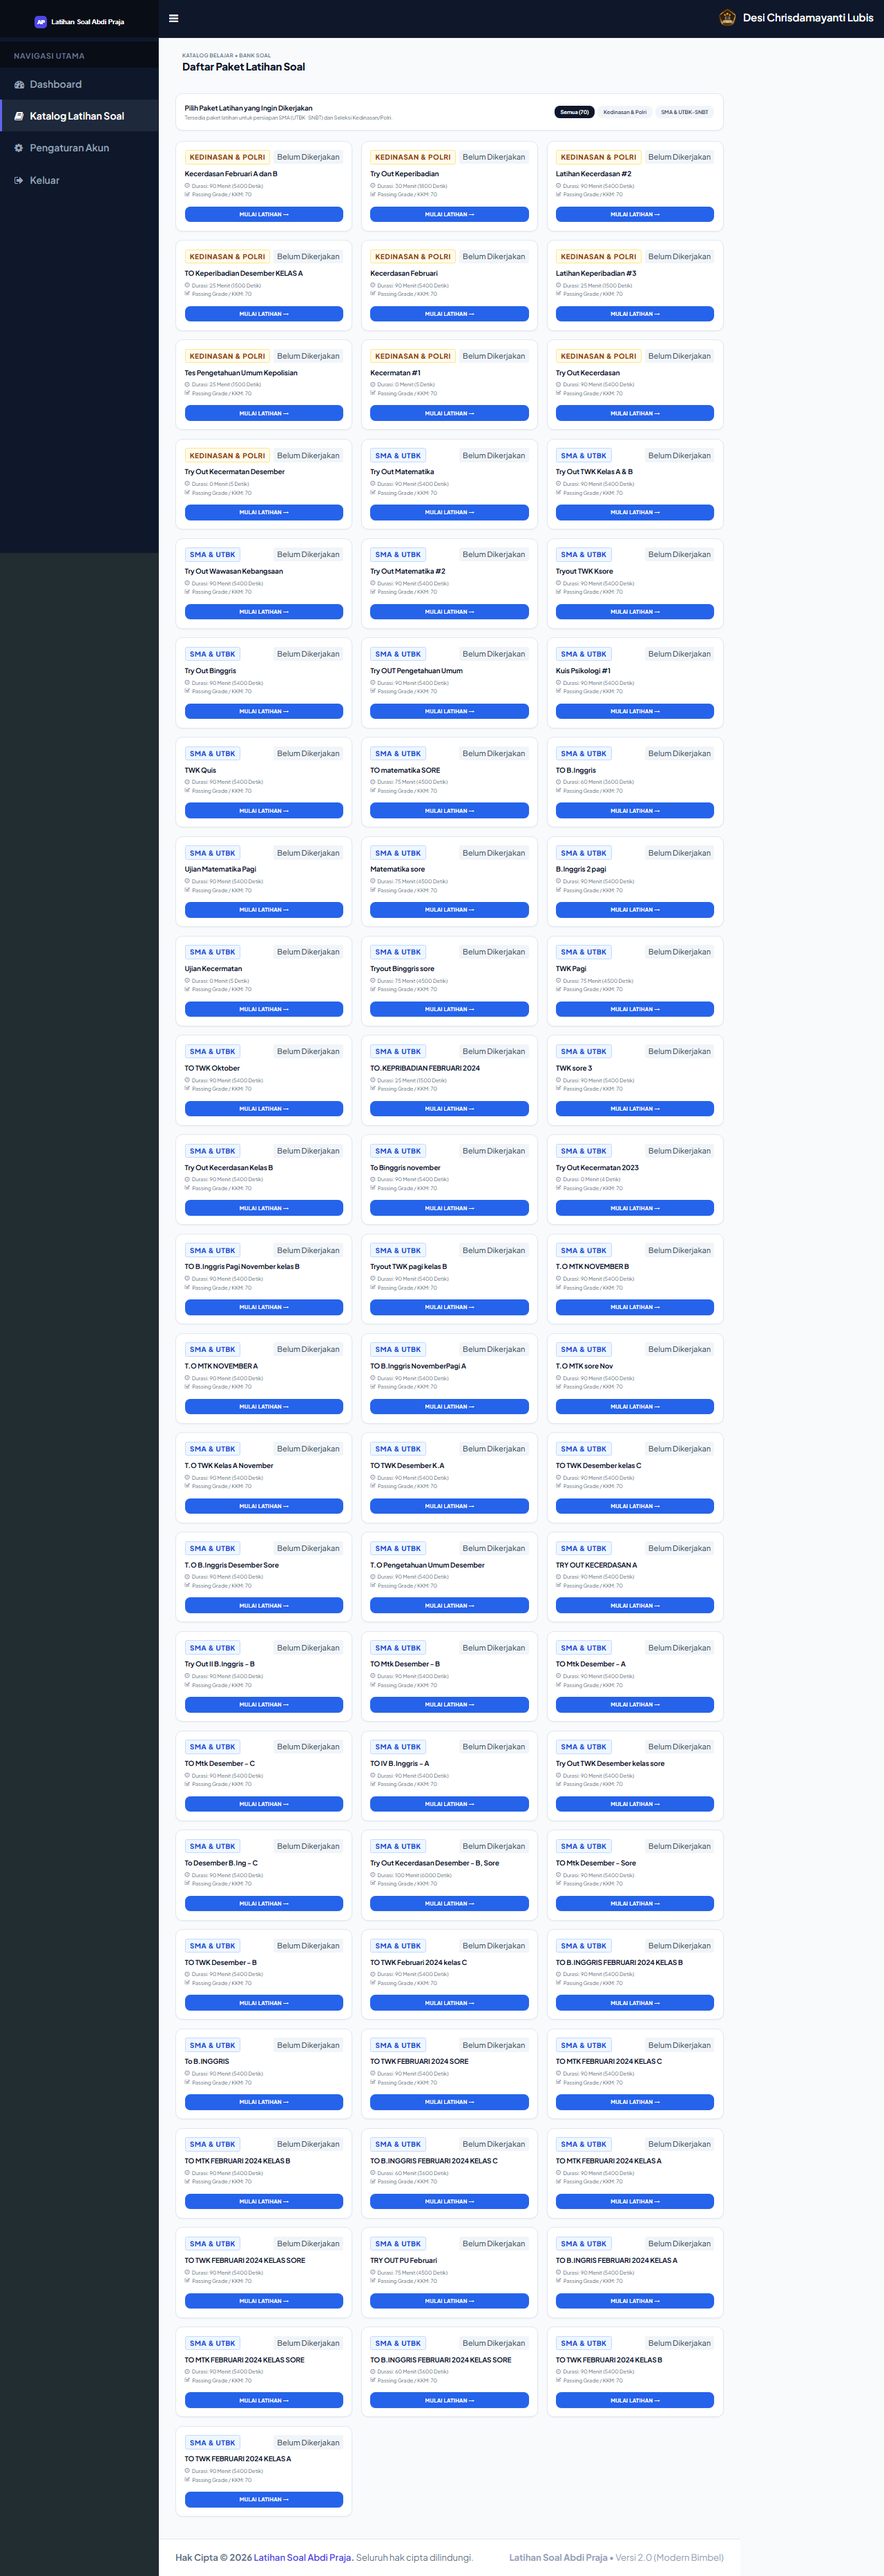
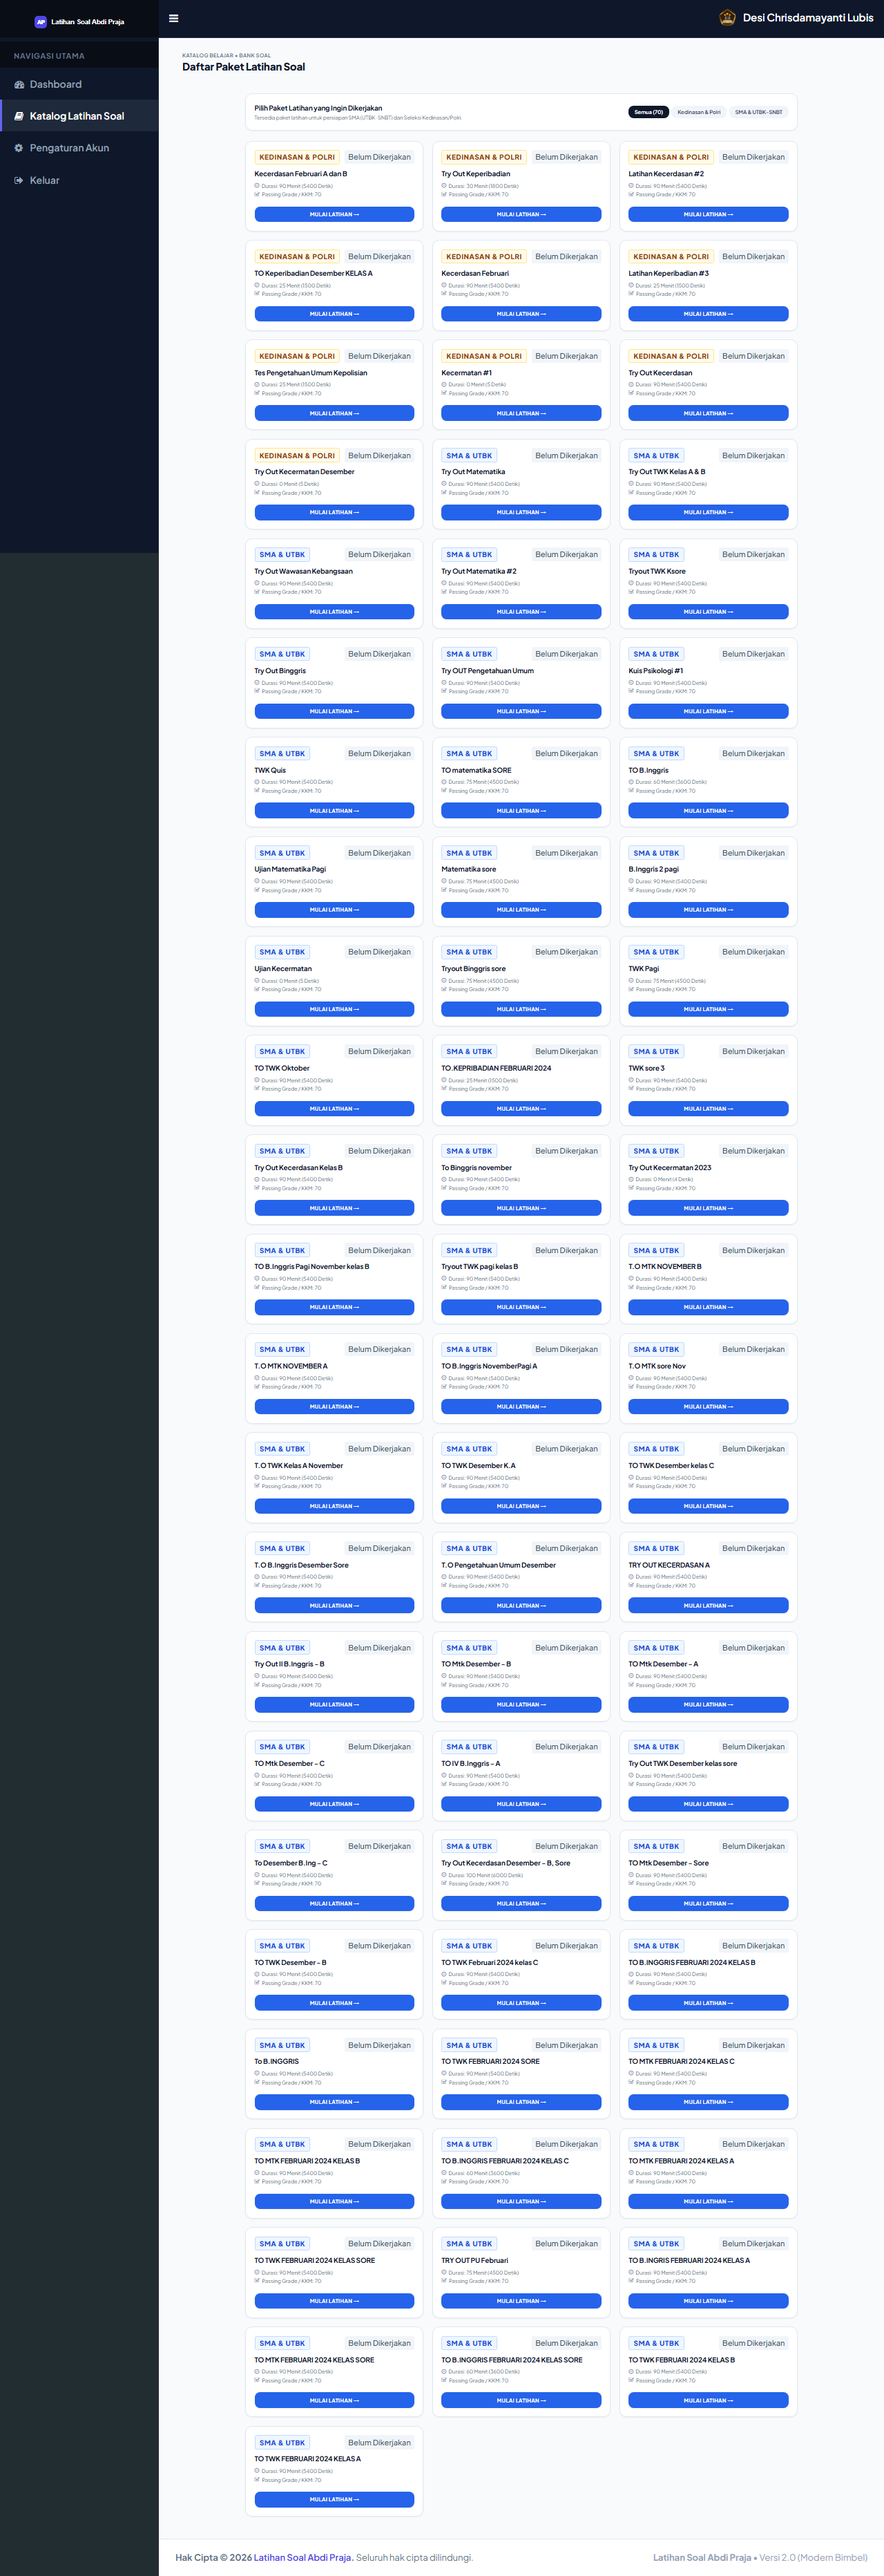
fix(layout): resolve 1020px container collapse, perfectly center content-wrapper, and fix datatables kelas column

Changed region(s): [[0.1875, 0.0311, 0.9062, 0.996]]

diff --git a/resources/views/layouts/app.blade.php b/resources/views/layouts/app.blade.php
@@ -30,6 +30,13 @@
   <link rel="stylesheet" type="text/css" href="{{ url('/assets/plugins/sweetalert2-1.0.5/dist/sweetalert2.min.css') }}">
   <link rel="icon" href="{{ url('/assets/img/favicon.jpg') }}" type="image/x-icon"/>
   <style type="text/css">
+    html, body {
+        width: 100% !important;
+        min-width: 100% !important;
+        margin: 0 !important;
+        padding: 0 !important;
+        overflow-x: hidden;
+    }
     body {
         font-family: 'Plus Jakarta Sans', -apple-system, BlinkMacSystemFont, sans-serif !important;
         font-size: 15px !important;
@@ -37,6 +44,13 @@
         color: #1e293b;
         background-color: #f8fafc;
         -webkit-font-smoothing: antialiased;
+    }
+    .wrapper {
+        width: 100% !important;
+        min-width: 100% !important;
+        max-width: 100% !important;
+        margin: 0 !important;
+        position: relative;
     }
     h1, h2, h3, h4, h5, h6 {
         font-family: 'Plus Jakarta Sans', sans-serif !important;
@@ -84,8 +98,46 @@
         border-left-color: #6366f1 !important;
     }
     .content-wrapper {
+        width: calc(100% - 230px) !important;
+        min-width: calc(100% - 230px) !important;
+        margin-left: 230px !important;
+        float: right !important;
         background-color: #f8fafc !important;
         min-height: calc(100vh - 105px) !important;
+    }
+    .sidebar-collapse .content-wrapper {
+        width: calc(100% - 50px) !important;
+        min-width: calc(100% - 50px) !important;
+        margin-left: 50px !important;
+    }
+    @media (max-width: 767px) {
+        .content-wrapper {
+            width: 100% !important;
+            min-width: 100% !important;
+            margin-left: 0 !important;
+            float: none !important;
+        }
+    }
+    .main-footer {
+        width: calc(100% - 230px) !important;
+        margin-left: 230px !important;
+        float: right !important;
+    }
+    .sidebar-collapse .main-footer {
+        width: calc(100% - 50px) !important;
+        margin-left: 50px !important;
+    }
+    @media (max-width: 767px) {
+        .main-footer {
+            width: 100% !important;
+            margin-left: 0 !important;
+            float: none !important;
+        }
+    }
+    .content > .row {
+        margin-left: 0 !important;
+        margin-right: 0 !important;
+        width: 100% !important;
     }
     .content-header {
         padding: 20px 24px 8px 24px !important;

diff --git a/app/Http/Controllers/SiswaController.php b/app/Http/Controllers/SiswaController.php
@@ -76,6 +76,9 @@ class SiswaController extends Controller
             return 'Perempuan';
           }
         })
+        ->addColumn('kelas', function ($siswas) {
+          return $siswas->getKelas ? $siswas->getKelas->nama : '-';
+        })
         ->addColumn('action', function ($siswas) {
           return '<div style="text-align:center"><a href="siswa/detail/' . $siswas->id . '" class="btn btn-xs btn-success">Detail</a></div>';
         })
@@ -88,6 +91,9 @@ class SiswaController extends Controller
           } else {
             return 'Perempuan';
           }
+        })
+        ->addColumn('kelas', function ($siswas) {
+          return $siswas->getKelas ? $siswas->getKelas->nama : '-';
         })
         ->addColumn('action', function ($siswas) {
           return '<div style="text-align:center">

diff --git a/resources/views/siswa/index.blade.php b/resources/views/siswa/index.blade.php
@@ -1,7 +1,7 @@
 @extends('layouts.app')
 @section('title', 'Data Siswa - Latihan Soal Abdi Praja')
 @section('breadcrumb')
-  <div class="px-4 py-2">
+  <div class="max-w-7xl mx-auto py-2">
     <div class="text-xs text-slate-500 font-semibold uppercase tracking-wider">Master Data &bull; Administrasi</div>
     <h1 class="text-xl sm:text-2xl font-black text-slate-900 mt-0.5">Kelola Data Siswa &amp; Peserta</h1>
   </div>
@@ -217,7 +217,8 @@ $(document).ready(function() {
         data: 'kelas',
         name: 'kelas',
         orderable: false,
-        searchable: false
+        searchable: false,
+        defaultContent: '-'
       },
       {
         data: 'action',

diff --git a/app/User.php b/app/User.php
@@ -27,4 +27,8 @@ class User extends Authenticatable
     'password', 'remember_token',
   ];
 
+  public function getKelas()
+  {
+    return $this->belongsTo(\App\Models\Kelas::class, 'id_kelas', 'id');
+  }
 }
